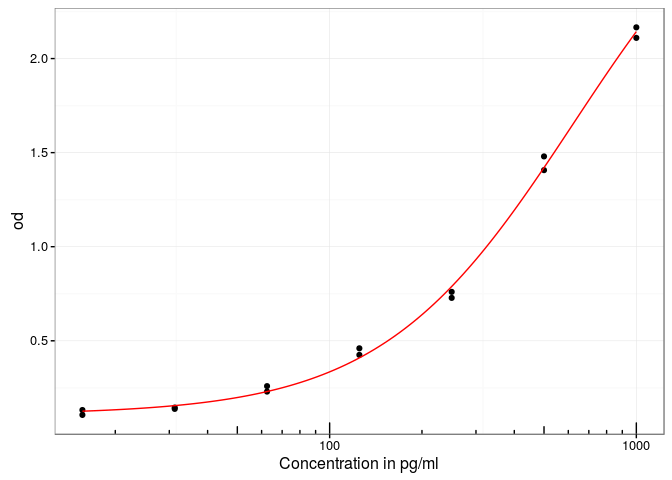
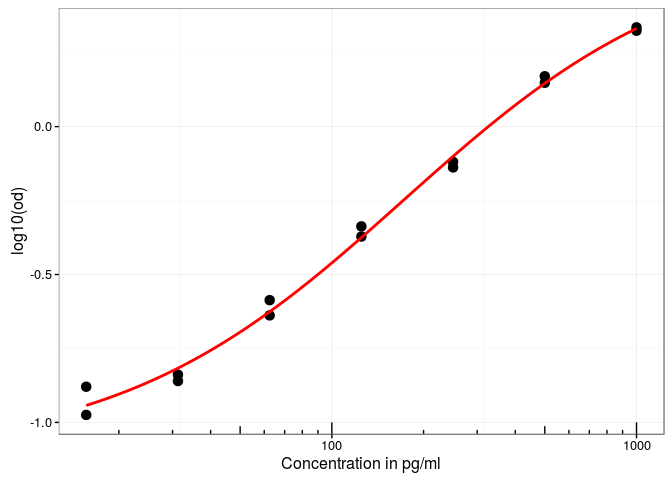
add code coverage to README

diff --git a/README.md b/README.md
@@ -2,6 +2,8 @@
 
 [![Travis-CI Build Status](https://travis-ci.org/koncina/elisar.svg?branch=master)](https://travis-ci.org/koncina/elisar)
 [![AppVeyor Build Status](https://ci.appveyor.com/api/projects/status/github/koncina/elisar?branch=master&svg=true)](https://ci.appveyor.com/project/koncina/elisar)
+[![Coverage Status](https://img.shields.io/codecov/c/github/koncina/elisar/master.svg)](https://codecov.io/github/koncina/elisar?branch=master)
+
 
 
 > ElisaR can handle Tecan Sunrise excel exports which were modified to include the plate layout and sample identifications. It will perform a 4PL regression (using the `drc` library) and return a dataframe containing the concentrations corresponding to the O.D. values.
@@ -37,7 +39,8 @@ devtools::install_git('https://github.com/koncina/elisar.git')
 
 ```r
 library(elisar)
-input <- read.plate("od-values.xls")
+example <- system.file("extdata", "example_full.xls", package="elisar")
+input <- read.plate(example)
 ```
 
 ```
@@ -51,19 +54,19 @@ input
 ```
 ## Source: local data frame [34 x 9]
 ## 
-##             file   row column    id description treatment medium
-##            <chr> <chr>  <chr> <chr>       <chr>     <chr>  <chr>
-## 1  od-values.xls     G      1   M1A        M1_A         A     M1
-## 2  od-values.xls     H      1   M2A        M2_A         A     M2
-## 3  od-values.xls     G      2   M1A        M1_A         A     M1
-## 4  od-values.xls     H      2   M2A        M2_A         A     M2
-## 5  od-values.xls     G      3   M1A        M1_A         A     M1
-## 6  od-values.xls     H      3   M2A        M2_A         A     M2
-## 7  od-values.xls     G      4   M1B        M1_B         B     M1
-## 8  od-values.xls     H      4   M2B        M2_B         B     M2
-## 9  od-values.xls     G      5   M1B        M1_B         B     M1
-## 10 od-values.xls     H      5   M2B        M2_B         B     M2
-## ..           ...   ...    ...   ...         ...       ...    ...
+##                file   row column    id description treatment medium
+##               <chr> <chr>  <chr> <chr>       <chr>     <chr>  <chr>
+## 1  example_full.xls     G      1   M1A        M1_A         A     M1
+## 2  example_full.xls     H      1   M2A        M2_A         A     M2
+## 3  example_full.xls     G      2   M1A        M1_A         A     M1
+## 4  example_full.xls     H      2   M2A        M2_A         A     M2
+## 5  example_full.xls     G      3   M1A        M1_A         A     M1
+## 6  example_full.xls     H      3   M2A        M2_A         A     M2
+## 7  example_full.xls     G      4   M1B        M1_B         B     M1
+## 8  example_full.xls     H      4   M2B        M2_B         B     M2
+## 9  example_full.xls     G      5   M1B        M1_B         B     M1
+## 10 example_full.xls     H      5   M2B        M2_B         B     M2
+## ..              ...   ...    ...   ...         ...       ...    ...
 ## Variables not shown: sheet <chr>, value <dbl>.
 ```
 
@@ -85,28 +88,28 @@ df
 ```
 ## elisa.analyse() concentration values obtained from the OD with the following 4PL regression(s):
 ## 
-##            file Slope:(Intercept) Lower:(Intercept) Upper:(Intercept)
-## 1 od-values.xls          -1.38447         0.1070846          3.200827
+##               file Slope:(Intercept) Lower:(Intercept) Upper:(Intercept)
+## 1 example_full.xls          -1.38447         0.1070846          3.200827
 ##   ED50:(Intercept)
 ## 1         622.9272
 ## 
 ## Source: local data frame [34 x 12]
 ## 
-##             file column   row    id description treatment medium
-##            <chr>  <chr> <chr> <chr>       <chr>     <chr>  <chr>
-## 1  od-values.xls      1     G   M1A        M1_A         A     M1
-## 2  od-values.xls      1     H   M2A        M2_A         A     M2
-## 3  od-values.xls      2     G   M1A        M1_A         A     M1
-## 4  od-values.xls      2     H   M2A        M2_A         A     M2
-## 5  od-values.xls      3     G   M1A        M1_A         A     M1
-## 6  od-values.xls      3     H   M2A        M2_A         A     M2
-## 7  od-values.xls      4     G   M1B        M1_B         B     M1
-## 8  od-values.xls      4     H   M2B        M2_B         B     M2
-## 9  od-values.xls      5     G   M1B        M1_B         B     M1
-## 10 od-values.xls      5     H   M2B        M2_B         B     M2
-## ..           ...    ...   ...   ...         ...       ...    ...
-## Variables not shown: sheet <chr>, concentration <dbl>, concentration.sd
-##   <dbl>, od <dbl>, .valid <lgl>.
+##                file column   row    id description treatment medium
+##               <chr>  <chr> <chr> <chr>       <chr>     <chr>  <chr>
+## 1  example_full.xls      1     G   M1A        M1_A         A     M1
+## 2  example_full.xls      1     H   M2A        M2_A         A     M2
+## 3  example_full.xls      2     G   M1A        M1_A         A     M1
+## 4  example_full.xls      2     H   M2A        M2_A         A     M2
+## 5  example_full.xls      3     G   M1A        M1_A         A     M1
+## 6  example_full.xls      3     H   M2A        M2_A         A     M2
+## 7  example_full.xls      4     G   M1B        M1_B         B     M1
+## 8  example_full.xls      4     H   M2B        M2_B         B     M2
+## 9  example_full.xls      5     G   M1B        M1_B         B     M1
+## 10 example_full.xls      5     H   M2B        M2_B         B     M2
+## ..              ...    ...   ...   ...         ...       ...    ...
+## Variables not shown: sheet <chr>, value <dbl>, concentration <dbl>,
+##   concentration.sd <dbl>, .valid <lgl>.
 ```
 
 The `elisa.analyse()` function performs a 4 parameter logistic regression (using `drc::drm()`) and returns a dataframe with the calculated concentration values.
@@ -122,22 +125,22 @@ head(df)
 ```
 ## Source: local data frame [6 x 12]
 ## 
-##            file column   row    id description treatment medium
-##           <chr>  <chr> <chr> <chr>       <chr>     <chr>  <chr>
-## 1 od-values.xls      1     G   M1A        M1_A         A     M1
-## 2 od-values.xls      1     H   M2A        M2_A         A     M2
-## 3 od-values.xls      2     G   M1A        M1_A         A     M1
-## 4 od-values.xls      2     H   M2A        M2_A         A     M2
-## 5 od-values.xls      3     G   M1A        M1_A         A     M1
-## 6 od-values.xls      3     H   M2A        M2_A         A     M2
-##              sheet concentration concentration.sd    od .valid
-##              <chr>         <dbl>            <dbl> <dbl>  <lgl>
-## 1 Magellan Sheet 1    159.998395         9.880593 0.516   TRUE
-## 2 Magellan Sheet 1     62.798726         6.192559 0.231   TRUE
-## 3 Magellan Sheet 1     70.308342         6.329615 0.251   TRUE
-## 4 Magellan Sheet 1     42.292176         5.570530 0.180   TRUE
-## 5 Magellan Sheet 1      5.933014         1.879901 0.112   TRUE
-## 6 Magellan Sheet 1      0.000000              NaN 0.092   TRUE
+##               file column   row    id description treatment medium
+##              <chr>  <chr> <chr> <chr>       <chr>     <chr>  <chr>
+## 1 example_full.xls      1     G   M1A        M1_A         A     M1
+## 2 example_full.xls      1     H   M2A        M2_A         A     M2
+## 3 example_full.xls      2     G   M1A        M1_A         A     M1
+## 4 example_full.xls      2     H   M2A        M2_A         A     M2
+## 5 example_full.xls      3     G   M1A        M1_A         A     M1
+## 6 example_full.xls      3     H   M2A        M2_A         A     M2
+##              sheet value concentration concentration.sd .valid
+##              <chr> <dbl>         <dbl>            <dbl>  <lgl>
+## 1 Magellan Sheet 1 0.516    159.998395         9.880593   TRUE
+## 2 Magellan Sheet 1 0.231     62.798726         6.192559   TRUE
+## 3 Magellan Sheet 1 0.251     70.308342         6.329615   TRUE
+## 4 Magellan Sheet 1 0.180     42.292176         5.570530   TRUE
+## 5 Magellan Sheet 1 0.112      5.933014         1.879901   TRUE
+## 6 Magellan Sheet 1 0.092      0.000000              NaN   TRUE
 ```
 
 The `elisa.standard()` function extracts the standard points from the dataframe (converting the dose values encoded in the id column to numbers)
@@ -148,25 +151,25 @@ elisa.standard(df)
 ```
 
 ```
-## Source: local data frame [14 x 7]
+## Source: local data frame [14 x 6]
 ## Groups: file [1]
 ## 
-##             file column   row        id        x    od concentration
-##            (chr)  (chr) (chr)     (chr)    (dbl) (dbl)         (dbl)
-## 1  od-values.xls     11     A   STD1000 1000.000 2.110     966.17666
-## 2  od-values.xls     11     B    STD500  500.000 1.480     529.15707
-## 3  od-values.xls     11     C    STD250  250.000 0.728     229.58423
-## 4  od-values.xls     11     D    STD125  125.000 0.460     141.72281
-## 5  od-values.xls     11     E   STD62.5   62.500 0.259      73.25357
-## 6  od-values.xls     11     F  STD31.25   31.250 0.145      26.15237
-## 7  od-values.xls     11     G STD15.625   15.625 0.132      19.25173
-## 8  od-values.xls     12     A   STD1000 1000.000 2.166    1023.85570
-## 9  od-values.xls     12     B    STD500  500.000 1.407     493.64274
-## 10 od-values.xls     12     C    STD250  250.000 0.760     240.32098
-## 11 od-values.xls     12     D    STD125  125.000 0.425     130.22567
-## 12 od-values.xls     12     E   STD62.5   62.500 0.230      62.41708
-## 13 od-values.xls     12     F  STD31.25   31.250 0.138      22.53036
-## 14 od-values.xls     12     G STD15.625   15.625 0.106       0.00000
+##                file column   row        id        x value
+##               (chr)  (chr) (chr)     (chr)    (dbl) (dbl)
+## 1  example_full.xls     11     A   STD1000 1000.000 2.110
+## 2  example_full.xls     11     B    STD500  500.000 1.480
+## 3  example_full.xls     11     C    STD250  250.000 0.728
+## 4  example_full.xls     11     D    STD125  125.000 0.460
+## 5  example_full.xls     11     E   STD62.5   62.500 0.259
+## 6  example_full.xls     11     F  STD31.25   31.250 0.145
+## 7  example_full.xls     11     G STD15.625   15.625 0.132
+## 8  example_full.xls     12     A   STD1000 1000.000 2.166
+## 9  example_full.xls     12     B    STD500  500.000 1.407
+## 10 example_full.xls     12     C    STD250  250.000 0.760
+## 11 example_full.xls     12     D    STD125  125.000 0.425
+## 12 example_full.xls     12     E   STD62.5   62.500 0.230
+## 13 example_full.xls     12     F  STD31.25   31.250 0.138
+## 14 example_full.xls     12     G STD15.625   15.625 0.106
 ```
 
 The `elisa.standard()` output can easily be integrated in `ggplot()` to render the regression curve (using `elisar::stat_4pl()` to draw the `drc::drm()` 4PL regression model).
@@ -178,11 +181,12 @@ library(ggplot2)
 library(scales)
 df %>%
   elisa.standard() %>%
-  ggplot(aes(x = x, y = od)) +
+  rename(od = value) %>%
+  ggplot(aes(x = x, y = log10(od))) +
   scale_x_log10() +
   annotation_logticks(sides = "b") +
-  geom_point() +
-  stat_4pl(color = "red") +
+  geom_point(size = 3) +
+  stat_4pl(color = "red", size = 1) +
   xlab("Concentration in pg/ml") +
   theme_bw()
 ```
@@ -191,4 +195,4 @@ df %>%
 
 ### Options for the regression
 
-Some options of the `elisa.analyse()` can be adjusted. Refer to the help page to list them (`?elisa.analyse`).
+Some options of the `elisa.analyse()` function can be adjusted. Refer to the help page to list them (`?elisa.analyse`).
